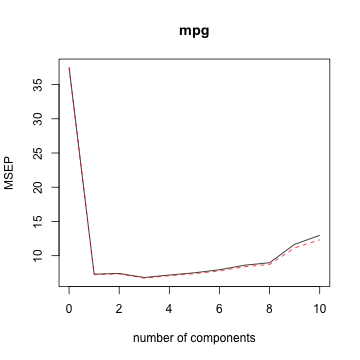
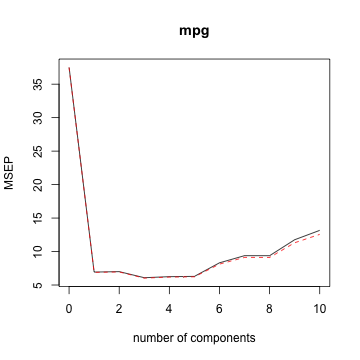
small edits

diff --git a/_posts/2016-01-03-ML-Dimension-Reduction.md b/_posts/2016-01-03-ML-Dimension-Reduction.md
@@ -1,6 +1,6 @@
 ---
 layout: post
-title: "Dimension Reduction"
+title: "Dimension Reduction: Principal Components"
 date: "January 3, 2016"
 categories: ['statistics', 'machine learning']
 ---
@@ -14,7 +14,7 @@ categories: ['statistics', 'machine learning']
 PCA is a dimension-reduction tecnique that produces a low-dimensional representation of a high-dimensional dataset. It finds a sequence of linear combinations of the variables that have
 
 * Maximal variance
-* Mutually uncorrelated
+* Mutually uncorrelated (orthogonal)
 
 In doing so, PCA can reduce the number of features from $$p$$ to $$M$$, where $$M < p$$.
 It is often helpful in dealing with cases in which the curse of dimensionality is severe. 
@@ -31,9 +31,9 @@ $$ X = U \Sigma V^T$$
 
 where 
 
-* $$\Sigma_{pxp}$$ is diagonal  
-* $$V_{pxp}$$ is orthogonal ($$A$$ is orthogonal if $$A^TA = AA^T = I$$). 
-* $$U_{Nxp}$$ is orthogonal
+* $$\Sigma_{Nxp}$$ is diagonal matrix with nonzero elements along first $$p$$ diagonals
+* $$V_{pxp}$$ is an orthogonal matrix ($$A$$ is orthogonal if $$A^TA = AA^T = I$$) in which the columns form an orthonormal basis for the row vectors of $$X$$ 
+* $$U_{NxN}$$ is an orthogonal matrix in which the columns form an orthonormal basis for the space spanned by the column vectors of $$X$$
 
 We can regenerate the symmetric matrix with
 $$X^T X = (U \Sigma V^T)^T (U \Sigma V^T)$$
@@ -43,7 +43,7 @@ $$X^T X = (V \Sigma^2 V^T)^T$$
 The matrix $$X^T X$$ is symmetric and so it can be written in the form $$Q \Lambda Q^T$$ where $$Q$$ is the orthogonal matrix of eigenvectors and $$\Lambda$$ are is a diagonal matrix of eigenvalues. Thus
 
 * Columns of $$V$$ are eigenvectors (of $$X^TX$$), ie the principal components loadings
-* Diagonal entries of $$D$$ are the eigenvalues (of $$X^TX$$), ie the standard deviations (can derive the proportion of variance explained)
+* Diagonal entries of $$D$$ are the eigenvalues (of $$X^TX$$) ordered from largest to smallest, ie the standard deviations (can derive the proportion of variance explained)
 
 We can also rearrange the SVD formula $$X = UDV^T$$ to $$XV = UD$$. This vector contains the principal component scores. 
 
@@ -166,11 +166,11 @@ summary(pcr.fit)
 ## VALIDATION: RMSEP
 ## Cross-validated using 10 random segments.
 ##        (Intercept)  1 comps  2 comps  3 comps  4 comps  5 comps
-## CV           6.123    2.702    2.721    2.610    2.678    2.738
-## adjCV        6.123    2.690    2.709    2.592    2.659    2.715
+## CV           6.123    2.633    2.646    2.468    2.500    2.507
+## adjCV        6.123    2.624    2.637    2.455    2.487    2.495
 ##        6 comps  7 comps  8 comps  9 comps  10 comps
-## CV       2.819    2.934    2.994    3.415     3.601
-## adjCV    2.789    2.897    2.952    3.338     3.510
+## CV       2.883    3.063    3.062    3.430     3.628
+## adjCV    2.850    3.021    3.019    3.363     3.545
 ## 
 ## TRAINING: % variance explained
 ##      1 comps  2 comps  3 comps  4 comps  5 comps  6 comps  7 comps

diff --git a/_posts/2015-10-21-OLS-Interpret-Coef.md b/_posts/2015-10-21-OLS-Interpret-Coef.md
@@ -291,11 +291,15 @@ This is essentially the same equations as the previous model.
 It is important to note even though both models generate similar regression lines, the overall model diagnostics ($$R^2$$, F statistic) will be different because the model is different.
 
 # Interaction Terms
-An interaction relates to the relationship among 3 or more variables. It occurs when the simultaneous influence of two variables on a third is not additive. In other words, the effect of one predictor on the response is different for different levels of another predictor. When interactions are significant we cannot just interpret the main effect, we must consider them together.
+An interaction relates to the relationship among 2 or more variables. It occurs when the simultaneous influence of two variables on a third is not additive. In other words, the effect of one predictor on the response is different for different levels of another predictor. When interactions are significant we cannot just interpret the main effect, we must consider them together.
 
-Consider the example above. We see that the effect of $$Petal.Length$$ on $$Sepal.Length$$ are the same for every $$Species$$, IE the slopes are the same. In this case, we say that there is no interaction between $$Species$$ and $$Petal.Length$$. If the slopes were different, we would conclude that the effect of $$Petal.Length$$ on $$Sepal.Length$$ were different for different species.
+Consider the example above. We see that the effect of $$Petal.Length$$ on $$Sepal.Length$$ are the same for every $$Species$$, ie the slopes are the same. In this case, we say that there is no (significant) interaction between $$Species$$ and $$Petal.Length$$. If the slopes were different, we would conclude that the effect of $$Petal.Length$$ on $$Sepal.Length$$ were different for different species.
 
 Another example is genetic risk factors and diet on diabetes. Unhealthy diets have been shown to have an effect on diabetes, but that effect is more severe if one has a gene with high risk for developing diabetes. 
 
+Interaction effects can be examined with interaction plots. The idea here is to plot $$Y$$ against one effect grouped by the other effect. Here's an example.
+<img src="/nhuyhoa/figure/source/2015-10-21-OLS-Interpret-Coef/unnamed-chunk-13-1.png" title="plot of chunk unnamed-chunk-13" alt="plot of chunk unnamed-chunk-13" style="display: block; margin: auto;" />
+
+If the interaction term is significant, we would expect to see parallel lines. Here the lines are parallel at low doses, so the effect of the dosage is the same for both supplements. However at higher does the lines are not parallel, so the effect of dosage is not the same for the two supplements.
 
 [diagnostics_post]: http://jnguyen92.github.io/nhuyhoa//2015/11/Regression-Diagnostics.html

diff --git a/_posts/2015-10-30-Linux-Commands.md b/_posts/2015-10-30-Linux-Commands.md
@@ -7,35 +7,76 @@ date: "October 30, 2015"
 * TOC
 {:toc}
 
-To navigate:
+**Obtain help:**
 {% highlight r %}
+man cmd
+{% endhighlight %}
+
+**To navigate:**
+{% highlight r %}
+# print current directory
+pwd
+
 # travel to the specified location
 cd filepath
 
-# travel back one directory
+# travel back to parent directory
 cd ..
 {% endhighlight %}
 
-To upload to a folder:
+**To list file contents**
+{% highlight r %}
+# print everything
+ls -l
+
+# print everything of a given name using wildcards (*, ?, [], {})
+ls name.*
+{% endhighlight %}
+
+**To upload to a folder:**
 {% highlight r %}
 rsync -a filename username@place:file_directory
 {% endhighlight %}
 
-To log in via ssh:
+**To log in via ssh:**
 {% highlight r %}
 ssh username@place
 {% endhighlight %}
 
-To remove a file:
+**To copy/move files:**
 {% highlight r %}
-# for a file
-rm filename
+# copy directories
+cp -r folder1 folder2
 
-# for a directory
-rm -f -r filepath
+# copy files
+cp filename1 filename2 ... new_location
+
+# copy files with wildcards
+cp name.* new_location
+
+# move files
+mv filenames ... new_location
 {% endhighlight %}
 
-Change Permissions:
+**To make files:**
+{% highlight r %}
+# for a directory(s)
+mkdir name1 name2
+{% endhighlight %}
+
+**To remove files:**
+{% highlight r %}
+# for an empty directory
+rmdir filepath
+
+# recursively delete
+rm -f -r filepath
+
+# for a file
+rm filename(s)
+{% endhighlight %}
+
+**Change permissions:**
 {% highlight r %}
 # make file readable by group
 chmod g+r filepath
@@ -43,5 +84,4 @@ chmod g+r filepath
 
 Useful locations:
 desk22.stat.wisc.edu:public/html
-mi1.biostat.wisc.edu:/u/medinfo/handin/bmi576
 

diff --git a/_posts/2015-11-21-Model-Selection-and-Regularization.md b/_posts/2015-11-21-Model-Selection-and-Regularization.md
@@ -54,6 +54,7 @@ The package `glmnet` is a great resource on fitting regularization models in R. 
 
 ## Ridge Regression
 In ridge regression, we find the values of $$\hat{\beta}_{ridge}$$ such that we minimize the equation
+
 $$\sum^n_{i = 1} (y_i - \beta_0 - \sum^p_{j = 1} \beta_j x_{ij})^2 + \lambda \sum^p_{j = 1} \beta_j^2 = RSS + \lambda \sum^p_{j = 1} \beta^2_j$$
 
 where $$\lambda \ge 0$$ is a tuning parameter, chosen via cross-validation. 
@@ -62,6 +63,7 @@ Or equivalently we minimize
 $$ \sum^n_{i = 1} (y_i-\beta_0-\sum^p_{j = 1} \beta_j x_{ij})^2 $$ subject to $$\sum^p_{j = 1} \beta^2 \le s$$.
 
 Then we get
+
 $$ \hat{\beta}_{ridge} = (X'X + \lambda I_p)^{-1} X'Y $$
 
 The term $$\lambda \Sigma_j \beta^2_j$$ is a shrinkage penalty; it is small when the $$\beta$$ estimates are close to zero. The tuning parameter $$\lambda$$ controls the impact of shrinkage.
@@ -131,6 +133,7 @@ Notice how as $$\lambda$$ increases, the coefficients are shrunk towards 0 (but 
 
 ## Lasso Regression
 In lasso regression, we find the values of $$\hat{\beta}_{lasso}$$ such that we minimize the equation
+
 $$\sum^n_{i = 1} (y_i - \beta_0 - \sum^p_{j = 1} \beta_j x_{ij})^2 + \lambda \sum^p_{j = 1} \vert\beta_j \vert = RSS + \lambda \sum^p_{j = 1} \vert\beta_j \vert$$
 
 where $$\lambda \ge 0$$ is a tuning parameter, chosen via cross-validation. 

diff --git a/_posts/2016-01-12-Sample-Size-Calculations.md b/_posts/2016-01-12-Sample-Size-Calculations.md
@@ -49,6 +49,8 @@ So the required Fischer information is
 $$f(n) = E_{\theta}[I(0)] = \frac{(Z_{1 - \alpha/2} + Z_{1 - \beta})^2}{\theta_1^2}$$
 
 From here we can calculate $$E[I(0)]$$, which is a function of required sample $$n$$ (required sample size), and solve for $$n$$. We can assume that $$E_{H_0}[I(0)] = E_{H_1}[I(0)]$$.
+
+For one-sided tests, change the $$Z_{1 - \alpha/2}$$ to $$Z_{1 - \alpha}$$.
  
 # Examples
 Let $$\epsilon_1 = n_1 / n$$ and $$\epsilon_2 = n_2 / n$$. 

diff --git a/_posts/2015-12-29-ML-Discriminant-Analysis-Naive-Bayes.md b/_posts/2015-12-29-ML-Discriminant-Analysis-Naive-Bayes.md
@@ -69,7 +69,7 @@ We can estimate the model parameters using the training data.
 .$$ \hat{\mu}_k = \frac{1}{n_k}\Sigma_{i} x_i * I(y_i = k)$$
 
 
-.$$\Sigma = \frac{1}{n - 1} \sum_{i = 1}^n (x - \mu)(x - \mu)^T$$
+.$$\Sigma = \frac{1}{n - k} \sum^K \sum_{i = 1}^n (x - \mu_k)(x - \mu-K)^T$$ where $$k$$ is the number of classes
 
 ## Response Probabilities
 We can compute the class probabilities with our discriminant function
